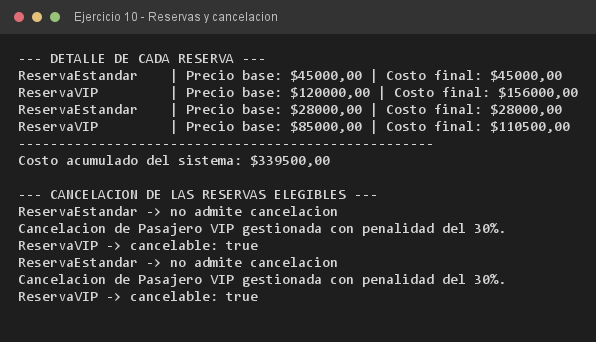
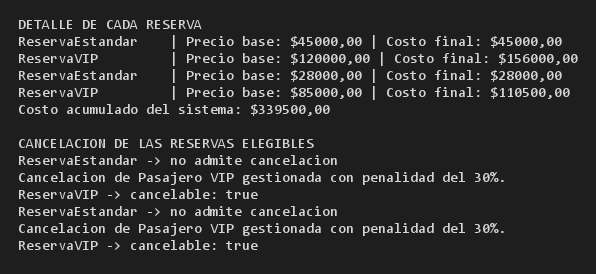
docs: quitar decoradores y actualizar capturas de consola

Changed region(s): [[0.0, 0.0292, 0.9664, 0.9343]]

diff --git a/src/Main.java b/src/Main.java
@@ -27,13 +27,10 @@ public class Main {
     public static void main(String[] args) {
         int opcion = -1;
         do {
-            System.out.println("\n==================================================");
             System.out.println("       MENÚ PRINCIPAL - EJERCITACIONES POO        ");
-            System.out.println("==================================================");
             System.out.println("1. Ejercitación 3.E.3 (Ejercicios 1 a 10)");
             System.out.println("2. Ejercitación 3.E.4 (Ejercicios 1 a 10)");
             System.out.println("0. Salir");
-            System.out.println("==================================================");
             System.out.print("Seleccione una opción: ");
 
             opcion = leerEntero();
@@ -57,9 +54,7 @@ public class Main {
     private static void menuEjercitacion3_3() {
         int opcion = -1;
         do {
-            System.out.println("\n--------------------------------------------------");
             System.out.println("              EJERCITACIÓN 3.E.3                  ");
-            System.out.println("--------------------------------------------------");
             System.out.println("1.  Ejercicio 1: FiguraGeometrica");
             System.out.println("2.  Ejercicio 2: Empleado");
             System.out.println("3.  Ejercicio 3: LiquidacionSueldos");
@@ -71,7 +66,6 @@ public class Main {
             System.out.println("9.  Ejercicio 9: Evaluable");
             System.out.println("10. Ejercicio 10: Reserva");
             System.out.println("0.  Volver al menú principal");
-            System.out.println("--------------------------------------------------");
             System.out.print("Seleccione un ejercicio a ejecutar: ");
 
             opcion = leerEntero();
@@ -129,9 +123,7 @@ public class Main {
     private static void menuEjercitacion3_4() {
         int opcion = -1;
         do {
-            System.out.println("\n--------------------------------------------------");
             System.out.println("              EJERCITACIÓN 3.E.4                  ");
-            System.out.println("--------------------------------------------------");
             System.out.println("1.  Ejercicio 1: MiembroUniversitario");
             System.out.println("2.  Ejercicio 2: EvaluacionAcademica");
             System.out.println("3.  Ejercicio 3: PersonalUniversitario");
@@ -143,7 +135,6 @@ public class Main {
             System.out.println("9.  Ejercicio 9: Evaluable");
             System.out.println("10. Ejercicio 10: ReservaTurno");
             System.out.println("0.  Volver al menú principal");
-            System.out.println("--------------------------------------------------");
             System.out.print("Seleccione un ejercicio a ejecutar: ");
 
             opcion = leerEntero();

diff --git a/src/ejercitacion3_4/ejercicio10/ReservaTurno.java b/src/ejercitacion3_4/ejercicio10/ReservaTurno.java
@@ -30,17 +30,16 @@ public abstract class ReservaTurno {
         turnos.add(new TurnoLaboratorio("Ayelen Cruz", "2026-03-13", 35000.0));
 
         double total = 0;
-        System.out.println("--- DETALLE DE CADA TURNO ---");
+        System.out.println("DETALLE DE CADA TURNO");
         for (ReservaTurno turno : turnos) {
             double arancel = turno.calcularArancel();
             total += arancel;
             System.out.printf("%-18s | %-18s | %-24s | Arancel: $%.2f%n",
                     turno.getPersona(), turno.getFecha(), turno.getClass().getSimpleName(), arancel);
         }
-        System.out.println("----------------------------------------------------");
         System.out.printf("COSTO TOTAL DE ARANCELES: $%.2f%n", total);
 
-        System.out.println("\n--- CANCELACION DE LOS TURNOS QUE LO PERMITEN ---");
+        System.out.println("\nCANCELACION DE LOS TURNOS QUE LO PERMITEN");
         for (ReservaTurno turno : turnos) {
             if (turno instanceof Cancelable) {
                 Cancelable cancelable = (Cancelable) turno;

diff --git a/src/ejercitacion3_3/ejercicio10/Reserva.java b/src/ejercitacion3_3/ejercicio10/Reserva.java
@@ -24,17 +24,16 @@ public abstract class Reserva {
         reservas.add(new ReservaVIP(85000.0));
 
         double total = 0;
-        System.out.println("--- DETALLE DE CADA RESERVA ---");
+        System.out.println("DETALLE DE CADA RESERVA");
         for (Reserva reserva : reservas) {
             double costo = reserva.calcularCostoFinal();
             total += costo;
             System.out.printf("%-18s | Precio base: $%.2f | Costo final: $%.2f%n",
                     reserva.getClass().getSimpleName(), reserva.getPrecioBase(), costo);
         }
-        System.out.println("----------------------------------------------------");
         System.out.printf("Costo acumulado del sistema: $%.2f%n", total);
 
-        System.out.println("\n--- CANCELACION DE LAS RESERVAS ELEGIBLES ---");
+        System.out.println("\nCANCELACION DE LAS RESERVAS ELEGIBLES");
         for (Reserva reserva : reservas) {
             if (reserva instanceof Cancelable) {
                 // downcasting seguro: solo las ReservationVIP implementan Cancelable

diff --git a/src/ejercitacion3_4/ejercicio06/CertificadoAnalitico.java b/src/ejercitacion3_4/ejercicio06/CertificadoAnalitico.java
@@ -31,15 +31,15 @@ public class CertificadoAnalitico implements Imprimible, ValidableDigitalmente {
     public static void main(String[] args) {
         CertificadoAnalitico certificado = new CertificadoAnalitico("Paula Medina", "Contaduria", "FD-2026-0091");
 
-        System.out.println("--- COMO Imprimible ---");
+        System.out.println("COMO Imprimible");
         Imprimible imprimible = certificado;
         imprimible.imprimirDocumento();
 
-        System.out.println("\n--- COMO ValidableDigitalmente ---");
+        System.out.println("\nCOMO ValidableDigitalmente");
         ValidableDigitalmente validable = certificado;
         validable.verificarFirmaDigital();
 
-        System.out.println("\n--- COMO CertificadoAnalitico (clase concreta) ---");
+        System.out.println("\nCOMO CertificadoAnalitico (clase concreta)");
         certificado.imprimirDocumento();
         System.out.println("Resultado de la verificacion: " + certificado.verificarFirmaDigital());
     }

diff --git a/src/ejercitacion3_3/ejercicio01/FiguraGeometrica.java b/src/ejercitacion3_3/ejercicio01/FiguraGeometrica.java
@@ -27,7 +27,7 @@ public abstract class FiguraGeometrica {
         Circulo circulo = new Circulo("rojo", 5.0);
         Rectangulo rectangulo = new Rectangulo("azul", 4.0, 6.0);
 
-        System.out.println("--- AREAS DE LAS FIGURAS ---");
+        System.out.println("AREAS DE LAS FIGURAS");
         System.out.printf("Circulo %-8s radio: %.2f | Area: %.2f%n",
                 circulo.getColor(), circulo.getRadio(), circulo.calcularArea());
         System.out.printf("Rectangulo %-6s base: %.2f | Altura: %.2f | Area: %.2f%n",
@@ -35,7 +35,7 @@ public abstract class FiguraGeometrica {
 
         // el metodo abstracto se puede invocar sobre cualquier referencia de tipo abstracto
         FiguraGeometrica figura = circulo;
-        System.out.println("\n--- LLAMADA POLIMORFICA AL METODO ABSTRACTO ---");
+        System.out.println("\nLLAMADA POLIMORFICA AL METODO ABSTRACTO");
         System.out.printf("Area desde la referencia abstracta: %.2f%n", figura.calcularArea());
     }
 }

diff --git a/src/ejercitacion3_4/ejercicio02/EvaluacionAcademica.java b/src/ejercitacion3_4/ejercicio02/EvaluacionAcademica.java
@@ -9,7 +9,7 @@ public abstract class EvaluacionAcademica {
 
     // metodo concreto heredable: el encabezado es el mismo para todas las evaluaciones
     public void imprimirEncabezado() {
-        System.out.println("--- EVALUACION: " + this.nombreMateria + " ---");
+        System.out.println("EVALUACION: " + this.nombreMateria);
     }
 
     // comportamiento especializado obligatorio
@@ -23,7 +23,7 @@ public abstract class EvaluacionAcademica {
         ExamenParcial parcial = new ExamenParcial("Algoritmos", 7.5, 9.0);
         TrabajoPracticoIntegrador tpi = new TrabajoPracticoIntegrador("Base de Datos", 8.0, 7.0, 0.4);
 
-        System.out.println("--- NOTA FINAL DE CADA TIPO DE EVALUACION ---");
+        System.out.println("NOTA FINAL DE CADA TIPO DE EVALUACION");
         parcial.imprimirEncabezado();
         System.out.printf("Nota final: %.2f%n", parcial.calcularNotaFinal());
 

diff --git a/src/ejercitacion3_3/ejercicio06/TelefonoInteligente.java b/src/ejercitacion3_3/ejercicio06/TelefonoInteligente.java
@@ -33,15 +33,15 @@ public class TelefonoInteligente implements Conectable, Recargable {
     public static void main(String[] args) {
         TelefonoInteligente telefono = new TelefonoInteligente("Samsung", 45);
 
-        System.out.println("--- COMO CONECTABLE ---");
+        System.out.println("COMO CONECTABLE");
         Conectable conectable = telefono;
         conectable.conectar();
 
-        System.out.println("\n--- COMO RECARGABLE ---");
+        System.out.println("\nCOMO RECARGABLE");
         Recargable recargable = telefono;
         recargable.cargarBateria();
 
-        System.out.println("\n--- COMO TELFONO INTELIGENTE (clase concreta) ---");
+        System.out.println("\nCOMO TELFONO INTELIGENTE (clase concreta)");
         telefono.desconectar();
         System.out.printf("Nivel de bateria final: %d%%%n", telefono.getNivelBateria());
     }

diff --git a/src/ejercitacion3_4/ejercicio08/SolicitudBeca.java b/src/ejercitacion3_4/ejercicio08/SolicitudBeca.java
@@ -30,7 +30,7 @@ public abstract class SolicitudBeca {
         solicitudes.add(new BecaComedor("Diego Paz", 90000.0));
 
         double presupuesto = 0;
-        System.out.println("--- DESGLOSE DE LAS SOLICITUDES ---");
+        System.out.println("DESGLOSE DE LAS SOLICITUDES");
         for (SolicitudBeca solicitud : solicitudes) {
             double monto = solicitud.calcularMontoAsignado();
             presupuesto += monto;
@@ -38,7 +38,6 @@ public abstract class SolicitudBeca {
                     solicitud.getSolicitante(), solicitud.getClass().getSimpleName(),
                     solicitud.getMontoBase(), monto);
         }
-        System.out.println("----------------------------------------------------");
         System.out.printf("PRESUPUESTO TOTAL REQUERIDO: $%.2f%n", presupuesto);
     }
 }

diff --git a/src/ejercitacion3_3/ejercicio08/Servicio.java b/src/ejercitacion3_3/ejercicio08/Servicio.java
@@ -34,13 +34,12 @@ public class Servicio implements Pagable {
         pagos.add(new CompraProducto("Teclado mecanico", 85000.0, 1));
 
         double total = 0;
-        System.out.println("--- DETALLE DE CADA MONTO A PAGAR ---");
+        System.out.println("DETALLE DE CADA MONTO A PAGAR");
         for (Pagable pagable : pagos) {
             double monto = pagable.obtenerMontoPago();
             total += monto;
             System.out.printf("[%s] Monto a pagar: $%.2f%n", pagable.getClass().getSimpleName(), monto);
         }
-        System.out.println("----------------------------------------------");
         System.out.printf("TOTAL GENERAL A PAGAR: $%.2f%n", total);
     }
 }

diff --git a/src/ejercitacion3_3/ejercicio09/ExamenEscrito.java b/src/ejercitacion3_3/ejercicio09/ExamenEscrito.java
@@ -19,10 +19,10 @@ public class ExamenEscrito implements Evaluable {
     public static void main(String[] args) {
         ExamenEscrito examen = new ExamenEscrito("Marta Fernandez", 8.0, 10);
 
-        System.out.println("--- METODO ABSTRACTO IMPLEMENTADO POR LA CLASE ---");
+        System.out.println("METODO ABSTRACTO IMPLEMENTADO POR LA CLASE");
         System.out.printf("Alumno: %s | Puntaje: %.2f%n", examen.alumno, examen.obtenerPuntaje());
 
-        System.out.println("\n--- METODO default HEREDADO DE LA INTERFAZ ---");
+        System.out.println("\nMETODO default HEREDADO DE LA INTERFAZ");
         System.out.println("Aprobado: " + examen.esAprobado());
     }
 }

diff --git a/src/ejercitacion3_4/ejercicio09/ExamenOral.java b/src/ejercitacion3_4/ejercicio09/ExamenOral.java
@@ -20,10 +20,10 @@ public class ExamenOral implements Evaluable {
     public static void main(String[] args) {
         ExamenOral examen = new ExamenOral("Nicolas Herrera", 8.5, 7.0);
 
-        System.out.println("--- METODO ABSTRACTO IMPLEMENTADO POR LA CLASE ---");
+        System.out.println("METODO ABSTRACTO IMPLEMENTADO POR LA CLASE");
         System.out.printf("Alumno: %s | Puntaje: %.2f%n", examen.alumno, examen.obtenerPuntaje());
 
-        System.out.println("\n--- METODO default HEREDADO DE LA INTERFAZ ---");
+        System.out.println("\nMETODO default HEREDADO DE LA INTERFAZ");
         System.out.println("Aprobado: " + examen.estaAprobado());
     }
 }

diff --git a/src/ejercitacion3_3/ejercicio02/Empleado.java b/src/ejercitacion3_3/ejercicio02/Empleado.java
@@ -31,7 +31,7 @@ public abstract class Empleado {
         EmpleadoPlanta planta = new EmpleadoPlanta("L-101", "Sofia Ramirez", 750000.0, 120000.0);
         EmpleadoEventual eventual = new EmpleadoEventual("L-202", "Diego Paz", 0.0, 120, 4500.0);
 
-        System.out.println("--- SUELDO NETO DE CADA TIPO DE EMPLEADO ---");
+        System.out.println("SUELDO NETO DE CADA TIPO DE EMPLEADO");
         System.out.printf("%-8s %-15s | Sueldo base: $%.2f | Sueldo neto: $%.2f%n",
                 planta.getLegajo(), planta.getNombre(), planta.getSueldoBase(), planta.calcularSueldoNeto());
         System.out.printf("%-8s %-15s | Sueldo base: $%.2f | Sueldo neto: $%.2f%n",
